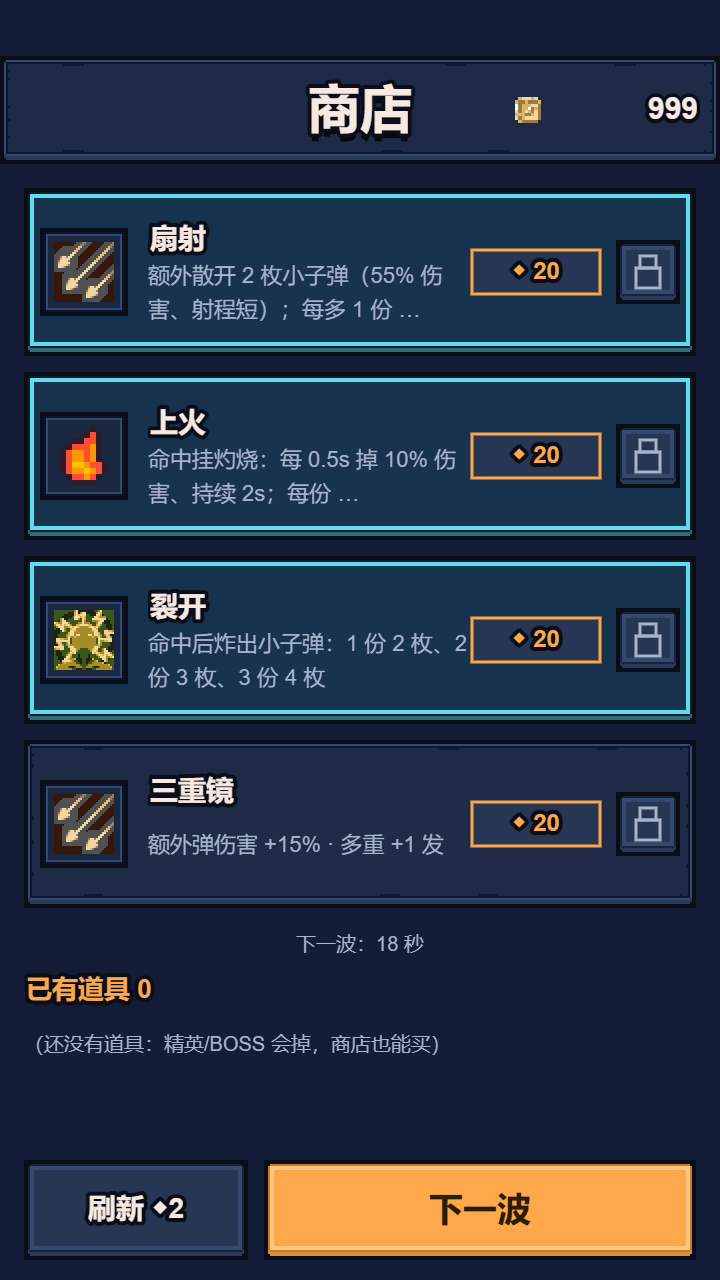
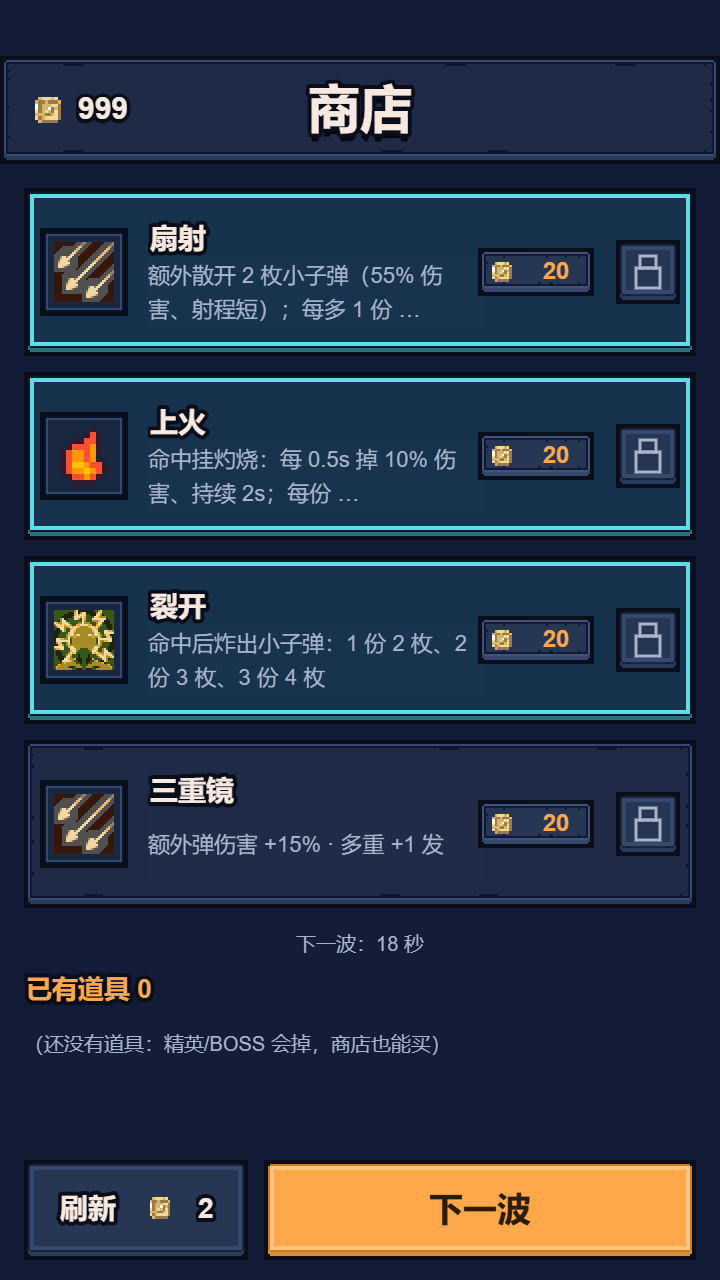
商店：金币移到标题左侧（右侧被遮挡）；价格/刷新按钮改用金币图标替代◆；刷新按钮文字与图标不再重叠；构建标记 v3

diff --git a/cocos/assets/scripts/ui/Modals.ts b/cocos/assets/scripts/ui/Modals.ts
@@ -208,6 +208,26 @@ const RARITY_COL = {
 
 const KIND_ICON: Record<string, string> = { item: '🛡', module: '⛓', heal: '＋', attr: '★' };
 
+/** 金币图标（14px）：价格 chip / 刷新按钮都用它，替代之前的"◆"棱形字符 */
+function coinGlyph(parent: Node, x: number, y: number, size = 13): Node {
+  const n = mkNode(parent, 'coin', size, size, x, y);
+  const sp = n.addComponent(Sprite);
+  sp.sizeMode = Sprite.SizeMode.CUSTOM; sp.trim = false;
+  const f = iconFrame('ui-gold.png');
+  if (f) sp.spriteFrame = f;
+  else void loadIcon('ui-gold.png').then(() => { const g = iconFrame('ui-gold.png'); if (g && sp.isValid) sp.spriteFrame = g; });
+  return n;
+}
+
+/** 价格 chip：金币图标 + 数字（不再用 "◆ 20" 这种字符占位） */
+function priceChip(parent: Node, x: number, y: number, price: number, color: Color): Node {
+  const w = Math.max(52, String(price).length * 9 + 40);
+  const c = panel(parent, x, y, w, 24, { bg: COL.bg3, line: color, radius: 3, shadow: false });
+  coinGlyph(c, -w / 2 + 12, 0, 13);
+  text(c, 10, 1, String(price), { size: 12, color, width: w - 30, align: 'center', bold: true, outline: false });
+  return c;
+}
+
 /** 10. 波间商店 —— 规格 §2.8：竖向 4 行，买完置灰不消失 */
 export function buildShop(parent: Node, wave: number, gold: number, slots: ShopSlotView[],
                           onBuy: (i: number) => void, onLock: (i: number) => void,
@@ -219,10 +239,10 @@ export function buildShop(parent: Node, wave: number, gold: number, slots: ShopS
   const S = safeTop(), B = safeBottom();
   const root = screen(parent, 'scr-shop', COL.bg1);
 
-  // ── 标题条（整条像素面板）+ 右侧金币 ──
+  // ── 标题条（整条像素面板）+ **左侧金币**（右侧会被微信胶囊/内容压住，用户 2026-10-30）──
   const header = screenHeader(root, VW, S, '商店');
   const hw = VW / 2;
-  const coin = mkNode(header, 'coin', 17, 17, hw - 96, 0);
+  const coin = mkNode(header, 'coin', 17, 17, -hw + 24, 0);
   const csp = coin.addComponent(Sprite);
   csp.sizeMode = Sprite.SizeMode.CUSTOM; csp.trim = false;
   const cfi = iconFrame('ui-gold.png');
@@ -231,7 +251,7 @@ export function buildShop(parent: Node, wave: number, gold: number, slots: ShopS
     const f2 = iconFrame('ui-gold.png');
     if (f2 && csp.isValid) csp.spriteFrame = f2;
   });
-  text(header, hw - 10, 1, String(gold), { size: 15, color: COL.cream, align: 'right', width: 76, bold: true, outline: true });
+  text(header, -hw + 38, 1, String(gold), { size: 15, color: COL.cream, align: 'left', width: 96, bold: true, outline: true });
 
   // ── 已有道具：先算它的位置（贴底），货架的高度再按剩余空间自适应 ──
   const btnY = -VH / 2 + B + 25;
@@ -291,7 +311,7 @@ export function buildShop(parent: Node, wave: number, gold: number, slots: ShopS
       text(row, 128, 0, '已购买', { size: 12, color: COL.red, align: 'right', width: 70, bold: true, outline: true });
     } else {
       const afford = gold >= s.price;
-      chip(row, 88, 0, '◆ ' + s.price, { color: afford ? COL.accent : COL.red, size: 12 });
+      priceChip(row, 88, 0, s.price, afford ? COL.accent : COL.red);
       // 锁定：视觉 32，热区 44（微信硬要求）
       const lockArt: UiArtName = s.locked ? 'btn_primary' : 'btn';
       const lk = panel(row, 144, 0, 32, 32, { art: lockArt });
@@ -356,7 +376,12 @@ export function buildShop(parent: Node, wave: number, gold: number, slots: ShopS
   }
 
   // 底部：刷新(112) + 下一波(216)
-  const rf = button(root, A(12 + 56, 0).x, btnY, 112, 50, '刷新 ◆' + rerollCost, { size: 14 });
+  const rf = button(root, A(12 + 56, 0).x, btnY, 112, 50, '刷新', { size: 14 });
+  // 布局：文字靠左、图标居中偏右、数字靠右（之前图标压在"刷新"上）
+  const rfLabel = rf.node.getComponentInChildren(Label);
+  if (rfLabel) { rfLabel.node.setPosition(-24, 1); (rfLabel.node.getComponent(UITransform))?.setContentSize(64, 20); }
+  coinGlyph(rf.node, 12, 1, 14);
+  text(rf.node, 30, 1, String(rerollCost), { size: 14, color: COL.cream, width: 34, align: 'left', bold: true, outline: true });
   onTap(rf.node, onReroll);
   const nx = button(root, A(132 + 108, 0).x, btnY, 216, 50, nextLabel || '下一波', { primary: true, size: 17 });
   onTap(nx.node, onNext);

diff --git a/cocos/assets/scripts/core/BuildTag.ts b/cocos/assets/scripts/core/BuildTag.ts
@@ -1,2 +1,2 @@
 /** 构建标记：每次重要改动更新这个字符串，设置页底部会显示，用来确认真机/开发者工具跑的是哪一版 */
-export const BUILD_TAG = '2026-10-30 12:40 角色形象 v2';
+export const BUILD_TAG = '2026-10-30 12:46 商店/文本 v3';
